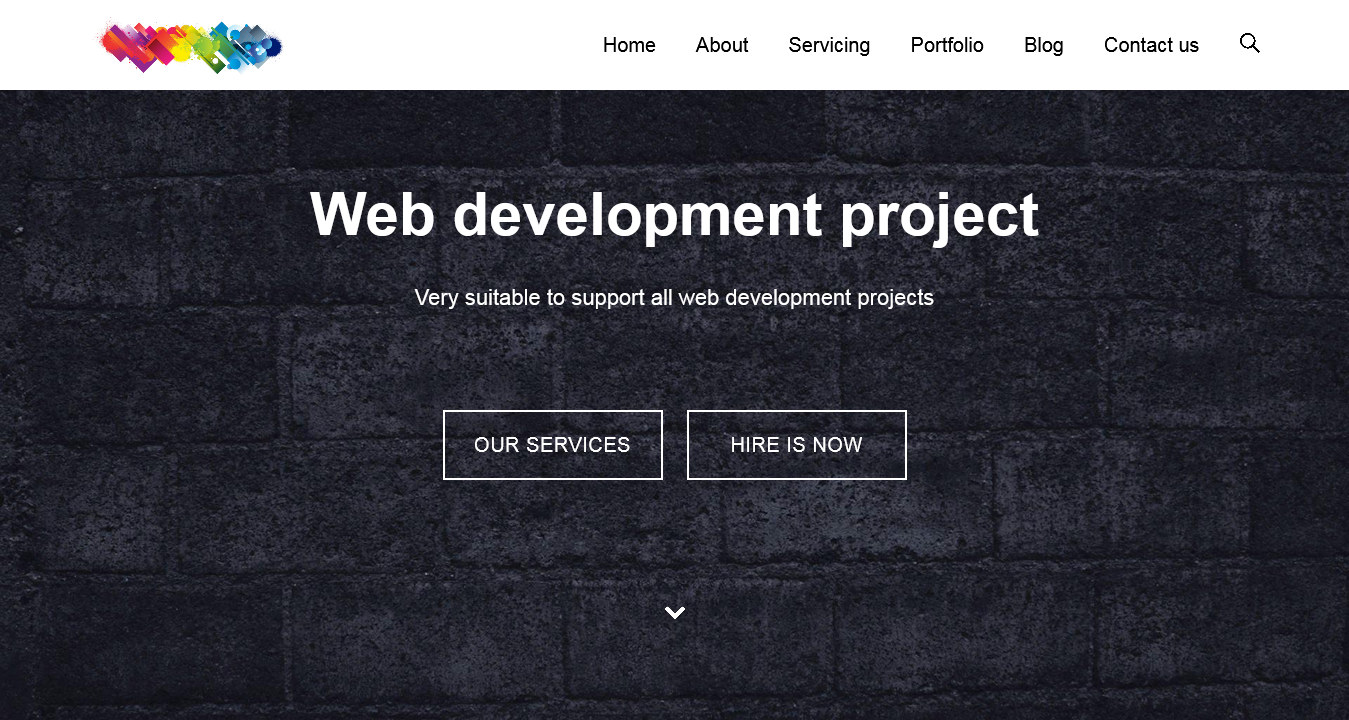
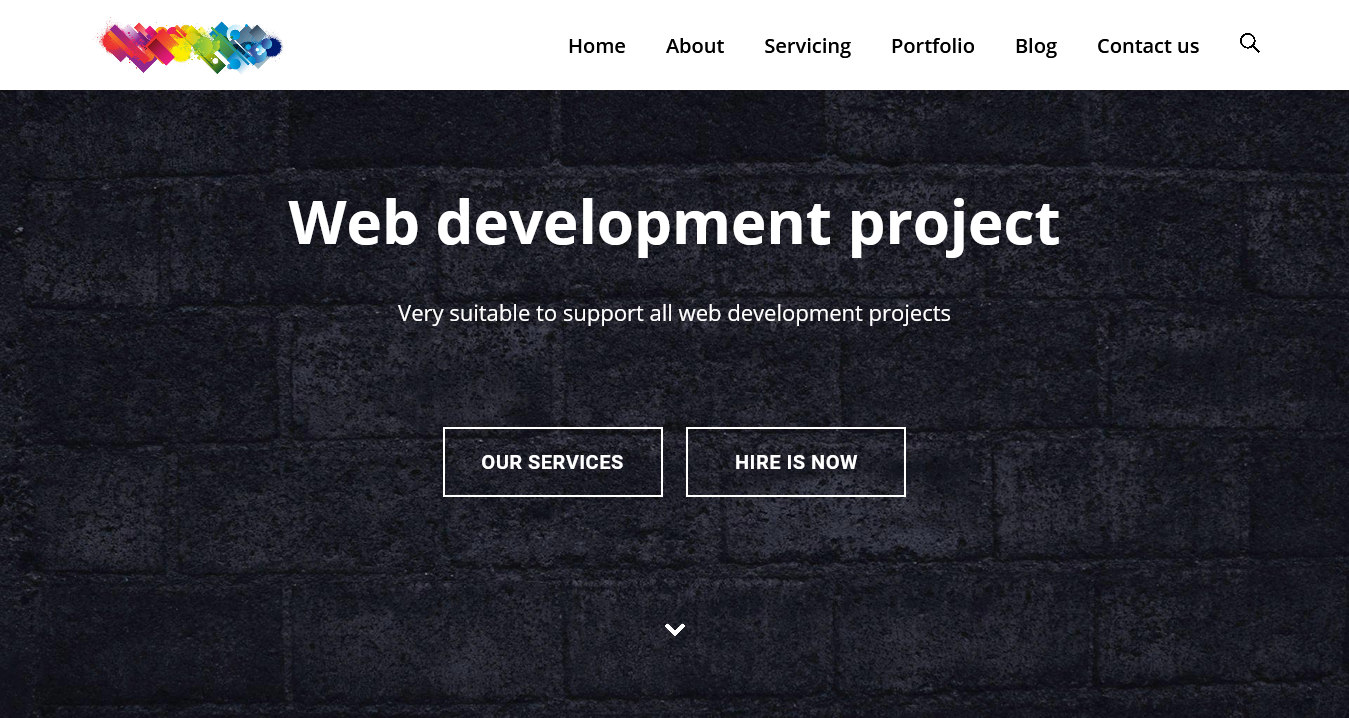
Сделал мелкие доработки

diff --git a/source/1webdev/index.html b/source/1webdev/index.html
@@ -5,6 +5,9 @@
   <meta charset="utf-8">
   <link type="image/png" sizes="32x32" rel="icon" href="favicon32.png">
   <link rel="stylesheet" type="text/css" href="pstyle.css">
+  <link rel="preconnect" href="https://fonts.gstatic.com">
+  <link href="https://fonts.googleapis.com/css2?family=Open+Sans:wght@300;400;600;700&display=swap" rel="stylesheet">
+  <link href="https://fonts.googleapis.com/css2?family=Roboto:wght@700&display=swap" rel="stylesheet">
   <script defer src="adaptive2.js"></script>
   <script defer src="slider2.js"></script>
 </head>
@@ -52,19 +55,19 @@
 		      <div class="about-item">
 		        <img src="img/globe.png" class="item-img" width="65px">
 		        <p class="item-name">Awesome Icons</p>
-		        <p>Lorem ipsum dolor sit amet, consectetur adipisicing elit, sed do eiusmod tempor</p>
+		        <p class="item-info">Lorem ipsum dolor sit amet, consectetur adipisicing elit, sed do eiusmod tempor</p>
 		      </div>
 
 		      <div class="about-item">
 		        <img src="img/globe.png" class="item-img" width="65px">
 		        <p class="item-name">One Page</p>
-		        <p>Lorem ipsum dolor sit amet, consectetur adipisicing elit, sed do eiusmod tempor</p>
+		        <p class="item-info">Lorem ipsum dolor sit amet, consectetur adipisicing elit, sed do eiusmod tempor</p>
 		      </div>
 
 		      <div class="about-item">
 		        <img src="img/globe.png" class="item-img" width="65px">
 		        <p class="item-name">Fully responsive</p>
-		        <p>Lorem ipsum dolor sit amet, consectetur adipisicing elit, sed do eiusmod tempor</p>
+		        <p class="item-info">Lorem ipsum dolor sit amet, consectetur adipisicing elit, sed do eiusmod tempor</p>
 		      </div>
 
 		    </div>
@@ -81,42 +84,42 @@
 			      <li class="services-item">
 			        <img src="img/phone.png" class="item-img" width="65px">
 			        <p class="item-name">Research</p>
-			        <p>At vero eos et accusamus et iusto odio dignissimos ducimus qui blanditiis praesentium voluptatum iti atque corrupti quos.</p>
+			        <p class="item-info">At vero eos et accusamus et iusto odio dignissimos ducimus qui blanditiis praesentium voluptatum iti atque corrupti quos.</p>
 			        <a href="#" class="btn readmore-btn">Read more</a>
 			      </li>
 
 			      <li class="services-item">
 			        <img src="img/phone.png" class="item-img" width="65px">
 			        <p class="item-name">Portfolio</p>
-			        <p>At vero eos et accusamus et iusto odio dignissimos ducimus qui blanditiis praesentium voluptatum iti atque corrupti quos.</p>
+			        <p class="item-info">At vero eos et accusamus et iusto odio dignissimos ducimus qui blanditiis praesentium voluptatum iti atque corrupti quos.</p>
 			        <a href="#" class="btn readmore-btn">Read more</a>
 			      </li>
 
 			      <li class="services-item">
 			        <img src="img/phone.png" class="item-img" width="65px">
 			        <p class="item-name">Support</p>
-			        <p>At vero eos et accusamus et iusto odio dignissimos ducimus qui blanditiis praesentium voluptatum iti atque corrupti quos.</p>
+			        <p class="item-info">At vero eos et accusamus et iusto odio dignissimos ducimus qui blanditiis praesentium voluptatum iti atque corrupti quos.</p>
 			        <a href="#" class="btn readmore-btn">Read more</a>
 			      </li>
 
 			      <li class="services-item">
 			        <img src="img/phone.png" class="item-img" width="65px">
 			        <p class="item-name">Documentation</p>
-			        <p>At vero eos et accusamus et iusto odio dignissimos ducimus qui blanditiis praesentium voluptatum iti atque corrupti quos.</p>
+			        <p class="item-info">At vero eos et accusamus et iusto odio dignissimos ducimus qui blanditiis praesentium voluptatum iti atque corrupti quos.</p>
 			        <a href="#" class="btn readmore-btn">Read more</a>
 			      </li>
 
 			      <li class="services-item">
 			        <img src="img/phone.png" class="item-img" width="65px">
 			        <p class="item-name">Development</p>
-			        <p>At vero eos et accusamus et iusto odio dignissimos ducimus qui blanditiis praesentium voluptatum iti atque corrupti quos.</p>
+			        <p class="item-info">At vero eos et accusamus et iusto odio dignissimos ducimus qui blanditiis praesentium voluptatum iti atque corrupti quos.</p>
 			        <a href="#" class="btn readmore-btn">Read more</a>
 			      </li>
 
 			      <li class="services-item">
 			        <img src="img/phone.png" class="item-img" width="65px">
 			        <p class="item-name">Design</p>
-			        <p>At vero eos et accusamus et iusto odio dignissimos ducimus qui blanditiis praesentium voluptatum iti atque corrupti quos.</p>
+			        <p class="item-info">At vero eos et accusamus et iusto odio dignissimos ducimus qui blanditiis praesentium voluptatum iti atque corrupti quos.</p>
 			        <a href="#" class="btn readmore-btn">Read more</a>
 			      </li>
 			    </ul>
@@ -239,7 +242,7 @@
 				<li class="team-member">
 					<img src="img/elon.jpg" class="member-avatar" width="350px">
 					<p class="member-name">Elon Musk</p>
-					<p>General Director</p>
+					<p class="post">General Director</p>
 
 					<ul class="team-social-btns-wrap">
 						<li><a href="#" class="team-social-btn"></a></li>
@@ -252,7 +255,7 @@
 				<li class="team-member">
 					<img src="img/elon.jpg" class="member-avatar" width="350px">
 					<p class="member-name">Elon Musk 2</p>
-					<p>General Director 2</p>
+					<p class="post">General Director 2</p>
 
 					<ul class="team-social-btns-wrap">
 						<li><a href="#" class="team-social-btn"></a></li>
@@ -265,7 +268,7 @@
 				<li class="team-member">
 					<img src="img/elon.jpg" class="member-avatar" width="350px">
 					<p class="member-name">Elon Musk 3</p>
-					<p>General Director 3</p>
+					<p class="post">General Director 3</p>
 
 					<ul class="team-social-btns-wrap">
 						<li><a href="#" class="team-social-btn"></a></li>
@@ -278,7 +281,7 @@
 				<li class="team-member">
 					<img src="img/margot.jpg" class="member-avatar" width="350px">
 					<p class="member-name">Margot Robbie</p>
-					<p>Assistant</p>
+					<p class="post">Assistant</p>
 
 					<ul class="team-social-btns-wrap">
 						<li><a href="#" class="team-social-btn"></a></li>
@@ -291,7 +294,7 @@
 				<li class="team-member">
 					<img src="img/margot.jpg" class="member-avatar" width="350px">
 					<p class="member-name">Margot Robbie 2</p>
-					<p>Assistant 2</p>
+					<p class="post">Assistant 2</p>
 
 					<ul class="team-social-btns-wrap">
 						<li><a href="#" class="team-social-btn"></a></li>
@@ -304,7 +307,7 @@
 				<li class="team-member">
 					<img src="img/margot.jpg" class="member-avatar" width="350px">
 					<p class="member-name">Margot Robbie 3</p>
-					<p>Assistant 3</p>
+					<p class="post">Assistant 3</p>
 
 					<ul class="team-social-btns-wrap">
 						<li><a href="#" class="team-social-btn"></a></li>
@@ -317,7 +320,7 @@
 				<li class="team-member">
 					<img src="img/leo.jpg" class="member-avatar" width="350px">
 					<p class="member-name">Leonardo DiCaprio</p>
-					<p>Associate Director</p>
+					<p class="post">Associate Director</p>
 
 					<ul class="team-social-btns-wrap">
 						<li><a href="#" class="team-social-btn"></a></li>
@@ -330,7 +333,7 @@
 				<li class="team-member">
 					<img src="img/leo.jpg" class="member-avatar" width="350px">
 					<p class="member-name">Leonardo DiCaprio 2</p>
-					<p>Associate Director 2</p>
+					<p class="post">Associate Director 2</p>
 
 					<ul class="team-social-btns-wrap">
 						<li><a href="#" class="team-social-btn"></a></li>
@@ -343,7 +346,7 @@
 				<li class="team-member">
 					<img src="img/leo.jpg" class="member-avatar" width="350px">
 					<p class="member-name">Leonardo DiCaprio 3</p>
-					<p>Associate Director 3</p>
+					<p class="post">Associate Director 3</p>
 
 					<ul class="team-social-btns-wrap">
 						<li><a href="#" class="team-social-btn"></a></li>

diff --git a/source/1webdev/pstyle.css b/source/1webdev/pstyle.css
@@ -2,8 +2,9 @@
   body {
     margin: 0;
     padding:0;
-    font-family:"Arial", sans-serif;
+    font-family: 'Open Sans', sans-serif;
     font-size: 15px;
+    font-weight: 600;
   }
 
   a {
@@ -37,6 +38,7 @@
 
   .block-description {
     /*width: 53.84%;*/
+    font-weight: normal;
     padding: 0 23.077%;
     margin: 0 auto;
     margin-bottom: 110px;
@@ -48,6 +50,7 @@
     justify-content: center;
     align-items: center;
     height: 70px;
+    font-family: 'Roboto', sans-serif;
     font-size: 20px;
     letter-spacing: 0.5px;
     text-transform: uppercase;
@@ -131,6 +134,7 @@
 
   main p {
     font-size: 22px;
+    font-weight: normal;
     margin-top: 35px;
     margin-bottom: 100px;
   }
@@ -186,6 +190,10 @@
     font-size: 20px;
   }
 
+  .item-info {
+    font-weight: normal;
+  }
+
 /* ====================================================================================== Наши сервисы */
 
   .services {
@@ -233,6 +241,7 @@
   }
 
   .readmore-btn {
+    font-family: 'Open Sans', sans-serif;
     height: 60px;
     border-color: #000000;
     margin-top: 45px;
@@ -258,6 +267,7 @@
   }
 
   .portfolio-btn {
+    font-family: 'Open Sans', sans-serif;
     width: 180px;
     height: 60px;
     border-color: #00897b;
@@ -341,6 +351,7 @@
     padding-bottom: 60px;
     margin-bottom: 30px;
     width: 370px;
+    font-weight: normal;
     background-color: #ffffff;
     background-image: linear-gradient(-5deg, transparent 488.9px, #3949ab 490px);
   }
@@ -364,6 +375,7 @@
 
   .price-value {
     font-size: 50px;
+    line-height: 50px;
     letter-spacing: 3px;
     margin-bottom: 100px;
     color: #ffffff;
@@ -372,11 +384,15 @@
   .price-value::after {
     content: "per month";
     font-size: 15px;
-    letter-spacing: 0;
+    letter-spacing: 1px;
+    margin-left: 5px;
+    position: relative;
+    top: -4px;
   }
 
   .price-component {
     font-size: 17px;
+    font-weight: lighter;
     color: #212121;
     width: 180px;
     text-align: center;
@@ -390,6 +406,7 @@
   }
 
   .price-btn {
+    font-family: 'Open Sans', sans-serif;
     height: 60px;
     width: 180px;
     border-color: #000000;
@@ -428,6 +445,10 @@
   .member-name {
     font-size: 20px;
     margin-bottom: 10px;
+  }
+
+  .post {
+    font-weight: normal;
   }
 
   .team-social-btns-wrap {
@@ -530,9 +551,12 @@
   .article-title {
     grid-area: title;
     font-size: 25px;
-    color: #00897b;
     align-self: end;
     justify-self:start;
+  }
+
+  .article-title:hover {
+    color: #00897b;
   }
 
   .article-date::before, .article-category::before{
@@ -558,6 +582,7 @@
   }
 
   .article-description {
+    font-weight: normal;
     grid-area: description;
     align-self: start;
   }
@@ -589,9 +614,9 @@
   }
 
   .contacts-item p, .contacts-item a {
-    font-weight: bold;
-    color: #ffffff;
+    font-size: 22px;
     line-height: 28px;
+    color: #ffffff;
   }
 
   .contact-img {
@@ -654,4 +679,5 @@ footer::after {
   padding-top: 21px;
   background-color: #ffffff;
   text-align: center;
+  font-family: 'Roboto', sans-serif;
 }
